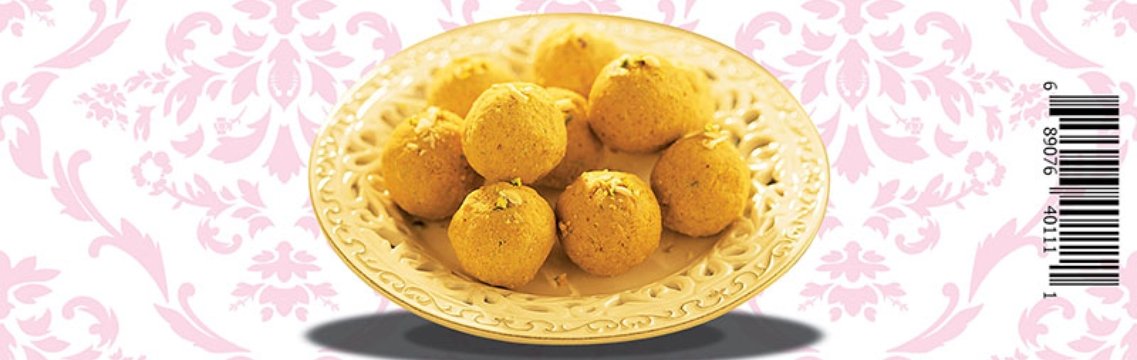
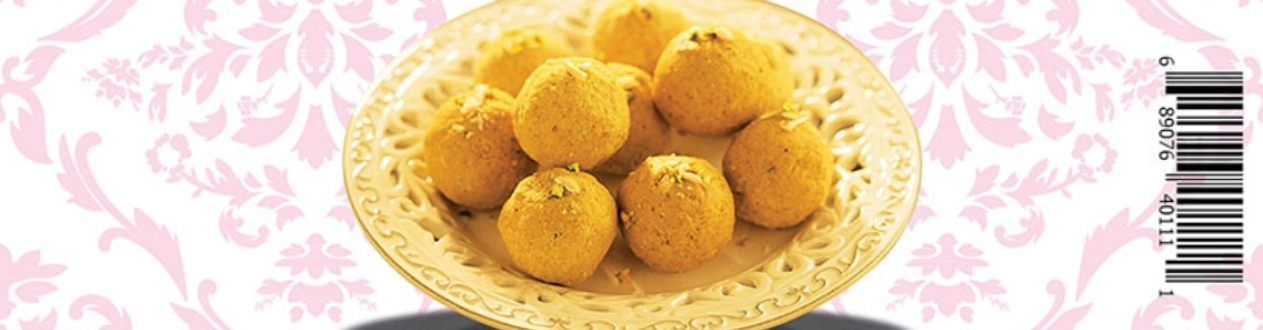
fareed

diff --git a/shansweets2nd/sliderengine/initslider-1.js b/shansweets2nd/sliderengine/initslider-1.js
@@ -9,8 +9,8 @@ jQuery(document).ready(function(){
     jQuery("#amazingslider-1").amazingslider({
         sliderid:1,
         jsfolder:jsFolder,
-        width:1137,
-        height:360,
+        width:1263,
+        height:330,
         skinsfoldername:"",
         loadimageondemand:false,
         videohidecontrols:false,
@@ -35,15 +35,14 @@ jQuery(document).ready(function(){
         descriptioncssresponsive:"font-size:12px;",
         shownumbering:false,
         skin:"Classic",
-        textautohide:true,
         addgooglefonts:false,
         navshowplaypause:true,
-        navshowplayvideo:true,
+        navshowplayvideo:false,
         navshowplaypausestandalonemarginx:8,
         navshowplaypausestandalonemarginy:8,
         navbuttonradius:0,
         navthumbnavigationarrowimageheight:32,
-        navradius:0,
+        navpreviewarrowheight:8,
         lightboxshownavigation:false,
         showshadow:false,
         navfeaturedarrowimagewidth:16,
@@ -56,18 +55,19 @@ jQuery(document).ready(function(){
         navthumbnavigationarrowimagewidth:32,
         navthumbtitlehovercss:"text-decoration:underline;",
         texteffectresponsivesize:600,
+        navcolor:"#999999",
         arrowwidth:32,
         texteffecteasing:"easeOutCubic",
         texteffect:"slide",
         lightboxthumbheight:60,
         navspacing:8,
-        playvideoimage:"playvideo-64-64-0.png",
+        navarrowimage:"navarrows-28-28-0.png",
         ribbonimage:"ribbon_topleft-0.png",
         navwidth:24,
         navheight:24,
         arrowimage:"arrows-32-32-0.png",
         timeropacity:0.6,
-        titlecssresponsive:"font-size:12px;",
+        arrowhideonmouseleave:1000,
         navthumbnavigationarrowimage:"carouselarrows-32-32-0.png",
         navshowplaypausestandalone:false,
         texteffect1:"slide",
@@ -82,7 +82,7 @@ jQuery(document).ready(function(){
         textpositionmargintop:24,
         buttoncssresponsive:"",
         navswitchonmouseover:false,
-        navarrowimage:"navarrows-28-28-0.png",
+        playvideoimage:"playvideo-64-64-0.png",
         arrowtop:50,
         textstyle:"static",
         playvideoimageheight:64,
@@ -96,14 +96,13 @@ jQuery(document).ready(function(){
         textbgcss:"display:block; position:absolute; top:0px; left:0px; width:100%; height:100%; background-color:#333333; opacity:0.6; filter:alpha(opacity=60);",
         textpositiondynamic:"bottomleft",
         navpreviewarrowwidth:16,
-        navdirection:"horizontal",
-        backgroundimagewidth:120,
+        playvideoimagewidth:64,
         buttoncss:"display:block; position:relative; margin-top:8px;",
         navshowpreviewontouch:false,
         bottomshadowimagewidth:96,
         showtimer:true,
+        navradius:0,
         navmultirows:false,
-        playvideoimagewidth:64,
         navshowpreview:true,
         navmarginy:16,
         navmarginx:16,
@@ -116,6 +115,7 @@ jQuery(document).ready(function(){
         backgroundimagetop:-10,
         timercolor:"#ffffff",
         numberingformat:"%NUM/%TOTAL ",
+        navdirection:"horizontal",
         navfontsize:12,
         navhighlightcolor:"#333333",
         texteffectdelay1:1000,
@@ -130,19 +130,21 @@ jQuery(document).ready(function(){
         navshowfeaturedarrow:false,
         lightboxbarheight:64,
         titlecss:"display:block; position:relative; font:bold 14px \"Lucida Sans Unicode\",\"Lucida Grande\",sans-serif,Arial; color:#fff;",
+        ribbonimagey:0,
+        ribbonimagex:0,
         texteffectslidedistance1:120,
         texteffectslidedistance2:120,
         navrowspacing:8,
         navshowplaypausestandaloneposition:"bottomright",
         navshowbuttons:false,
         lightboxthumbtopmargin:12,
-        arrowhideonmouseleave:1000,
+        titlecssresponsive:"font-size:12px;",
         navshowplaypausestandalonewidth:28,
         navfeaturedarrowimageheight:8,
         navopacity:0.8,
         textpositionmarginright:24,
-        navthumbtitlecss:"display:block;position:relative;padding:2px 4px;text-align:left;font:bold 14px Arial,Helvetica,sans-serif;color:#333;",
-        navcolor:"#999999",
+        backgroundimagewidth:120,
+        textautohide:true,
         navthumbtitlewidth:120,
         navpreviewposition:"top",
         texteffectseparate:false,
@@ -163,9 +165,9 @@ jQuery(document).ready(function(){
         texteffecteasing1:"easeOutCubic",
         textcss:"display:block; padding:12px; text-align:left;",
         navbordercolor:"#ffffff",
-        navpreviewarrowheight:8,
         navpreviewarrowimage:"previewarrow-16-8-0.png",
-        showbottomshadow:true,
+        navthumbtitlecss:"display:block;position:relative;padding:2px 4px;text-align:left;font:bold 14px Arial,Helvetica,sans-serif;color:#333;",
+        showbottomshadow:false,
         texteffectslidedistance:30,
         texteffectdelay:500,
         textpositionmarginstatic:0,
@@ -180,8 +182,6 @@ jQuery(document).ready(function(){
         shadowsize:5,
         lightboxthumbbottommargin:8,
         textpositionmarginbottom:24,
-        ribbonmarginy:0,
-        ribbonmarginx:0,
         lightboxshowtitle:true,
         slice: {
             duration:1500,

diff --git a/shansweets2nd/slider.html b/shansweets2nd/slider.html
@@ -24,13 +24,22 @@
                 </li>
                 <li><img src="images/MainBanner-2Final-changed.jpg" alt="MainBanner-2Final-changed"  title="MainBanner-2Final-changed" />
                 </li>
+                <li><img src="images/AlmondBurfee.jpg" alt="AlmondBurfee"  title="AlmondBurfee" />
+                </li>
+                <li><img src="images/Box2.jpg" alt="Box2"  title="Box2" />
+                </li>
+                <li><img src="images/PistaBurfee.jpg" alt="PistaBurfee"  title="PistaBurfee" />
+                </li>
             </ul>
             <ul class="amazingslider-thumbnails" style="display:none;">
                 <li><img src="images/cart-gorcery-delivery-in-karachi-tn.jpg" alt="cart-gorcery-delivery-in-karachi" title="cart-gorcery-delivery-in-karachi" /></li>
                 <li><img src="images/Cartpk-MainBanner-1-Test3-1920x500-tn.jpg" alt="Cartpk-MainBanner-1-Test3-1920x500" title="Cartpk-MainBanner-1-Test3-1920x500" /></li>
                 <li><img src="images/MainBanner-2Final-changed-tn.jpg" alt="MainBanner-2Final-changed" title="MainBanner-2Final-changed" /></li>
+                <li><img src="images/AlmondBurfee-tn.jpg" alt="AlmondBurfee" title="AlmondBurfee" /></li>
+                <li><img src="images/Box2-tn.jpg" alt="Box2" title="Box2" /></li>
+                <li><img src="images/PistaBurfee-tn.jpg" alt="PistaBurfee" title="PistaBurfee" /></li>
             </ul>
-        <div class="amazingslider-engine"><a href="http://amazingslider.com" title="Slider jQuery">Slider jQuery</a></div>
+        <div class="amazingslider-engine"><a href="http://amazingslider.com" title="Responsive jQuery Slideshow">Responsive jQuery Slideshow</a></div>
         </div>
     </div>
     <!-- End of body section HTML codes -->

diff --git a/shansweets2nd/index.html b/shansweets2nd/index.html
@@ -53,12 +53,7 @@
     <!--<md-button class="md-raised button2" id="rotate" ng-click="toggleRight()" ng-hide="isOpenRight()"><ng-md-icon icon="chat" style="fill: white;text-align: center"></ng-md-icon><b>Chat Now</b></md-button>-->
 
 <!--</div>-->
-<div class="wrapper" >
 
-
-    <md-button class="md-raised button2" id="rotate" ng-click="toggleRight()" ng-hide="isOpenRight()"><ng-md-icon icon="chat" style="fill: white;text-align: center"></ng-md-icon><b>Chat Now</b></md-button>
-
-</div>
 
 <section layout="row" flex>
 
@@ -118,9 +113,12 @@
             <div id="amazingslider-1" style="display:block;position:relative;margin:0">
                 <ul class="amazingslider-slides" style="display:none;">
 
-                    <li><img src="images/Ras-Malai_10320.jpg"/></li>
-                    <li><img src="images/rasmalai.JPG"/></li>
+                    <li><img src="images/MainBanner-2Final-changed.jpg"/></li>
+                    <li><img src="images/Cartpk-MainBanner-1-Test3-1920x500.jpg"/></li>
+                    <li><img src="images/cart-gorcery-delivery-in-karachi.jpg"></li>
+                    <li><img src="images/PistaBurfee.jpg"></li>
                     <li><img src="images/Box2.jpg"></li>
+                    <li><img src="images/AlmondBurfee.jpg"></li>
 
 
 
@@ -240,7 +238,14 @@
                 </div>
             </md-card-content>
         </md-card>
+        <div class="wrapper" >
+
+
+            <md-button class="md-raised button2" id="rotate" ng-click="toggleRight()" ng-hide="isOpenRight()"><ng-md-icon icon="chat" style="fill: white;text-align: center"></ng-md-icon><b>Chat Now</b></md-button>
+
+        </div>
     </div>
+
 
     <footer layout="column">
 

diff --git a/shansweets2nd/dialog3.tmpl.html b/shansweets2nd/dialog3.tmpl.html
@@ -2,7 +2,7 @@
 
     <md-card>
         <md-card-content>
-            <img src="images/AlmondBurfee.jpg " class="dialogImg">
+            <img src="images/AlmondBurfeefull.jpg " class="dialogImg">
         </md-card-content>
     </md-card>
 

diff --git a/shansweets2nd/dialog5.tmpl.html b/shansweets2nd/dialog5.tmpl.html
@@ -2,7 +2,7 @@
 
     <md-card>
         <md-card-content>
-            <img src="images/PistaBurfee.jpg" class="dialogImg">
+            <img src="images/PistaBurfeefull.jpg" class="dialogImg">
         </md-card-content>
     </md-card>
 
